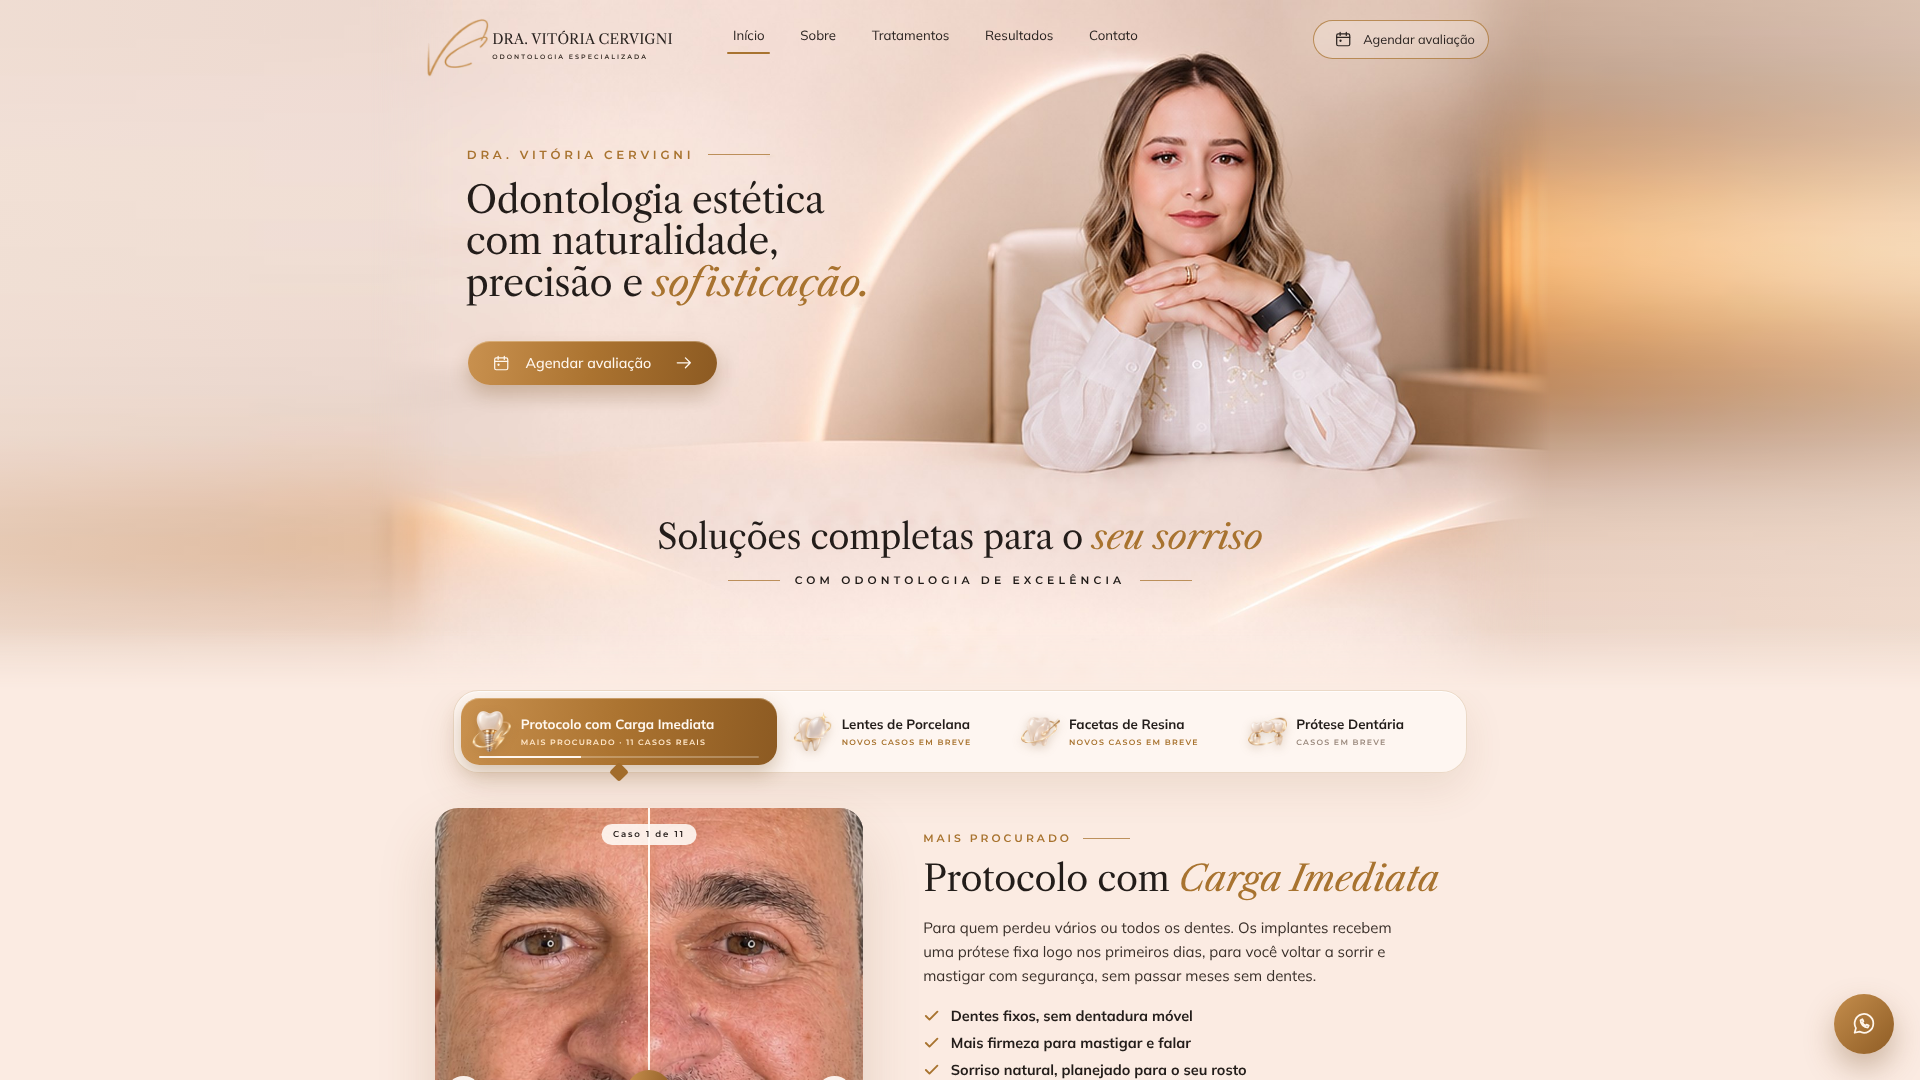
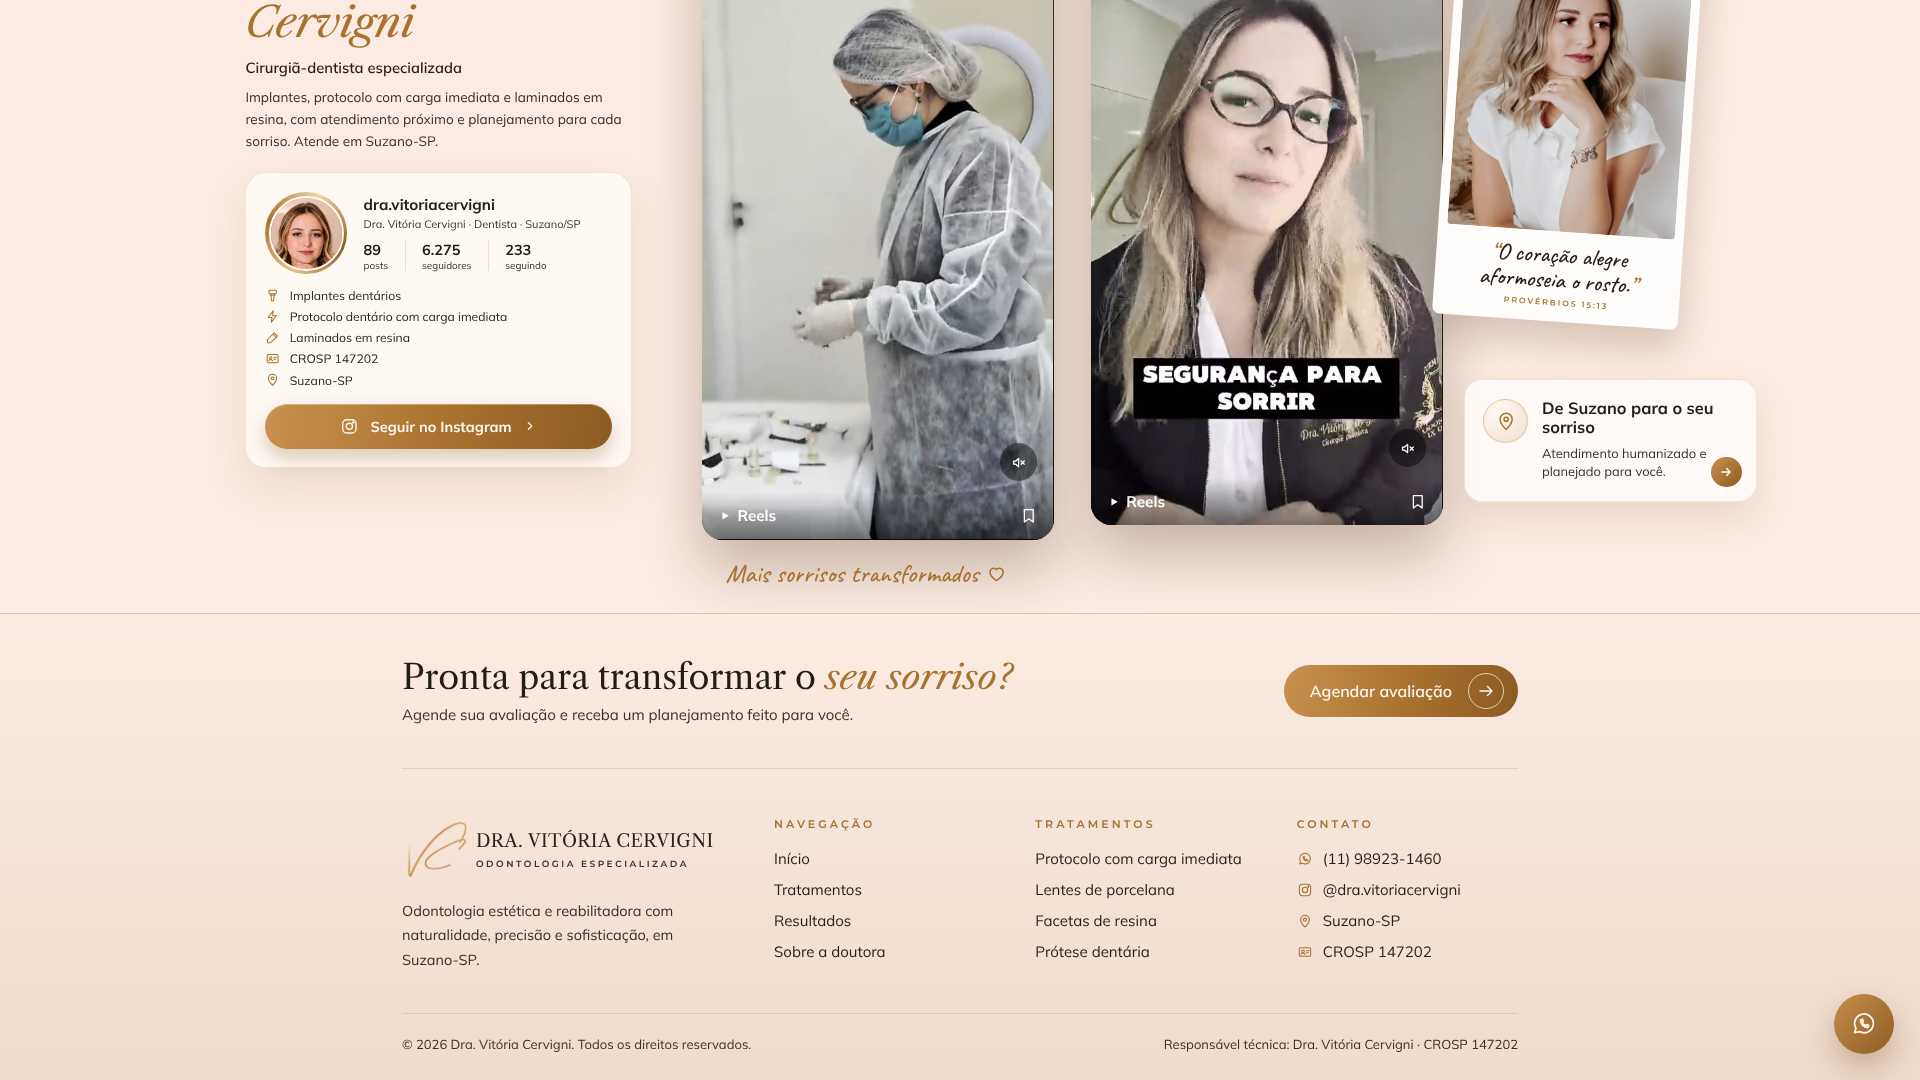
Add footer with CTA, navigation, treatments and contact
Claude-Session: https://claude.ai/code/session_011M2KAfbiXzYiuKdHpfC1dX

diff --git a/site/index.html b/site/index.html
@@ -375,6 +375,31 @@
   .so-script{position:absolute;left:calc(500*var(--u));top:calc(592*var(--u));display:flex;align-items:center;gap:calc(6*var(--u));
     font-family:'Caveat',cursive;font-size:calc(22*var(--u));color:var(--gold)}
   .so-script svg{width:calc(18*var(--u));height:calc(18*var(--u))}
+
+  /* ---------- Rodapé ---------- */
+  .footer{position:relative;background:linear-gradient(180deg,var(--mid) 0%,#efdccd 100%);border-top:1px solid rgba(168,115,47,.22)}
+  .f-wrap{max-width:1180px;margin:0 auto;padding-left:max(32px, env(safe-area-inset-left, 0px));padding-right:max(32px, env(safe-area-inset-right, 0px))}
+  .f-cta{display:flex;align-items:center;justify-content:space-between;gap:32px;flex-wrap:wrap;padding-block:44px;border-bottom:1px solid rgba(168,115,47,.2)}
+  .f-cta h2{font-family:var(--serif);font-weight:400;font-size:clamp(26px,2.4vw,34px);line-height:1.15;color:var(--ink);text-wrap:balance}
+  .f-cta h2 em{font-style:italic;color:var(--gold)}
+  .f-cta p{margin-top:8px;font-size:15px;color:var(--ink-2)}
+  .f-cta .btn{position:relative;height:52px;padding:0 14px 0 26px;gap:16px;font-size:16px;font-weight:600}
+  .f-cta .btn svg{width:18px;height:18px}
+  .f-grid{display:grid;grid-template-columns:minmax(0,1.5fr) repeat(3,minmax(0,1fr));gap:40px;padding-block:48px 40px}
+  .f-brand{display:flex;align-items:center;gap:4px}
+  .f-brand img{width:70px;height:auto}
+  .f-brand b{display:block;font-family:var(--serif);font-weight:400;font-size:18px;letter-spacing:.02em;color:#2a2320}
+  .f-brand small{display:block;font-family:var(--caps);font-weight:600;font-size:9px;letter-spacing:.28em;color:#3a2f28;margin-top:6px}
+  .f-about{margin-top:18px;font-size:14.5px;line-height:1.7;color:var(--ink-2);max-width:34ch}
+  .f-verse{margin-top:14px;font-family:'Caveat',cursive;font-size:20px;color:var(--gold)}
+  .f-col h4{font-family:var(--caps);font-weight:600;font-size:11px;letter-spacing:.28em;text-transform:uppercase;color:var(--gold)}
+  .f-col ul{list-style:none;margin-top:18px;display:flex;flex-direction:column;gap:12px;font-size:15px;color:var(--ink)}
+  .f-col a:hover{color:var(--gold)}
+  .f-col li{display:flex;align-items:center;gap:10px}
+  .f-col li svg{flex:none;width:16px;height:16px;color:var(--gold)}
+  .f-bottom{display:flex;justify-content:space-between;gap:12px 24px;flex-wrap:wrap;padding-block:22px 28px;border-top:1px solid rgba(168,115,47,.2);font-size:13px;color:var(--ink-2)}
+  @media (max-width:860px){.f-grid{grid-template-columns:1fr 1fr}.f-grid > :first-child{grid-column:1/-1}}
+  @media (max-width:520px){.f-grid{grid-template-columns:1fr}}
 </style>
 </head>
 <body>
@@ -517,6 +542,48 @@
       </div>
     </div>
   </section>
+
+  <!-- ================= RODAPÉ ================= -->
+  <footer class="footer">
+    <div class="f-wrap">
+      <div class="f-cta">
+        <div>
+          <h2>Pronta para transformar o <em>seu sorriso?</em></h2>
+          <p>Agende sua avaliação e receba um planejamento feito para você.</p>
+        </div>
+        <a href="#" data-wa class="btn btn-gold">Agendar avaliação <span class="ring" style="width:36px;height:36px;border-radius:50%;border:1.3px solid rgba(255,240,222,.75);display:grid;place-items:center"><svg viewBox="0 0 24 24" fill="none" stroke="currentColor" stroke-width="1.8" stroke-linecap="round" stroke-linejoin="round"><path d="M4 12h16M14 6l6 6-6 6"/></svg></span></a>
+      </div>
+
+      <div class="f-grid">
+        <div>
+          <div class="f-brand"><img src="assets/monograma-vc.png" alt=""><div><b>DRA. VITÓRIA CERVIGNI</b><small>ODONTOLOGIA ESPECIALIZADA</small></div></div>
+          <p class="f-about">Odontologia estética e reabilitadora com naturalidade, precisão e sofisticação, em Suzano-SP.</p>
+        </div>
+        <nav class="f-col" aria-label="Rodapé">
+          <h4>Navegação</h4>
+          <ul><li><a href="#inicio">Início</a></li><li><a href="#tratamentos">Tratamentos</a></li><li><a href="#resultados">Resultados</a></li><li><a href="#sobre">Sobre a doutora</a></li></ul>
+        </nav>
+        <div class="f-col">
+          <h4>Tratamentos</h4>
+          <ul><li>Protocolo com carga imediata</li><li>Lentes de porcelana</li><li>Facetas de resina</li><li>Prótese dentária</li></ul>
+        </div>
+        <div class="f-col">
+          <h4>Contato</h4>
+          <ul>
+            <li><svg viewBox="0 0 24 24" fill="none" stroke="currentColor" stroke-width="1.6" stroke-linecap="round" stroke-linejoin="round"><path d="M20 11.5a8 8 0 0 1-11.8 7L4 19.5l1.1-4A8 8 0 1 1 20 11.5z"/><path d="M9 8.8c0 3.3 2.9 6.2 6.2 6.2l.9-1.6-1.9-.9-.8.9a4.5 4.5 0 0 1-2.8-2.8l.9-.8-.9-1.9z"/></svg><a href="#" data-wa>(11) 98923-1460</a></li>
+            <li><svg viewBox="0 0 24 24" fill="none" stroke="currentColor" stroke-width="1.6" stroke-linecap="round" stroke-linejoin="round"><rect x="3.5" y="3.5" width="17" height="17" rx="5"/><circle cx="12" cy="12" r="4"/><circle cx="17" cy="7" r=".8" fill="currentColor"/></svg><a href="https://www.instagram.com/dra.vitoriacervigni/" target="_blank" rel="noopener">@dra.vitoriacervigni</a></li>
+            <li><svg viewBox="0 0 24 24" fill="none" stroke="currentColor" stroke-width="1.6" stroke-linecap="round" stroke-linejoin="round"><path d="M12 21s-6.5-6-6.5-11a6.5 6.5 0 0 1 13 0c0 5-6.5 11-6.5 11z"/><circle cx="12" cy="10" r="2.3"/></svg>Suzano-SP</li>
+            <li><svg viewBox="0 0 24 24" fill="none" stroke="currentColor" stroke-width="1.6" stroke-linecap="round" stroke-linejoin="round"><rect x="3.5" y="5.5" width="17" height="13" rx="2"/><circle cx="9" cy="11" r="2"/><path d="M6 15.5c.6-1.4 1.7-2 3-2s2.4.6 3 2M14 10h4M14 13h3"/></svg>CROSP 147202</li>
+          </ul>
+        </div>
+      </div>
+
+      <div class="f-bottom">
+        <span>© 2026 Dra. Vitória Cervigni. Todos os direitos reservados.</span>
+        <span>Responsável técnica: Dra. Vitória Cervigni · CROSP 147202</span>
+      </div>
+    </div>
+  </footer>
 </div>
 
 <a class="wa" data-wa href="#" aria-label="Falar no WhatsApp">
